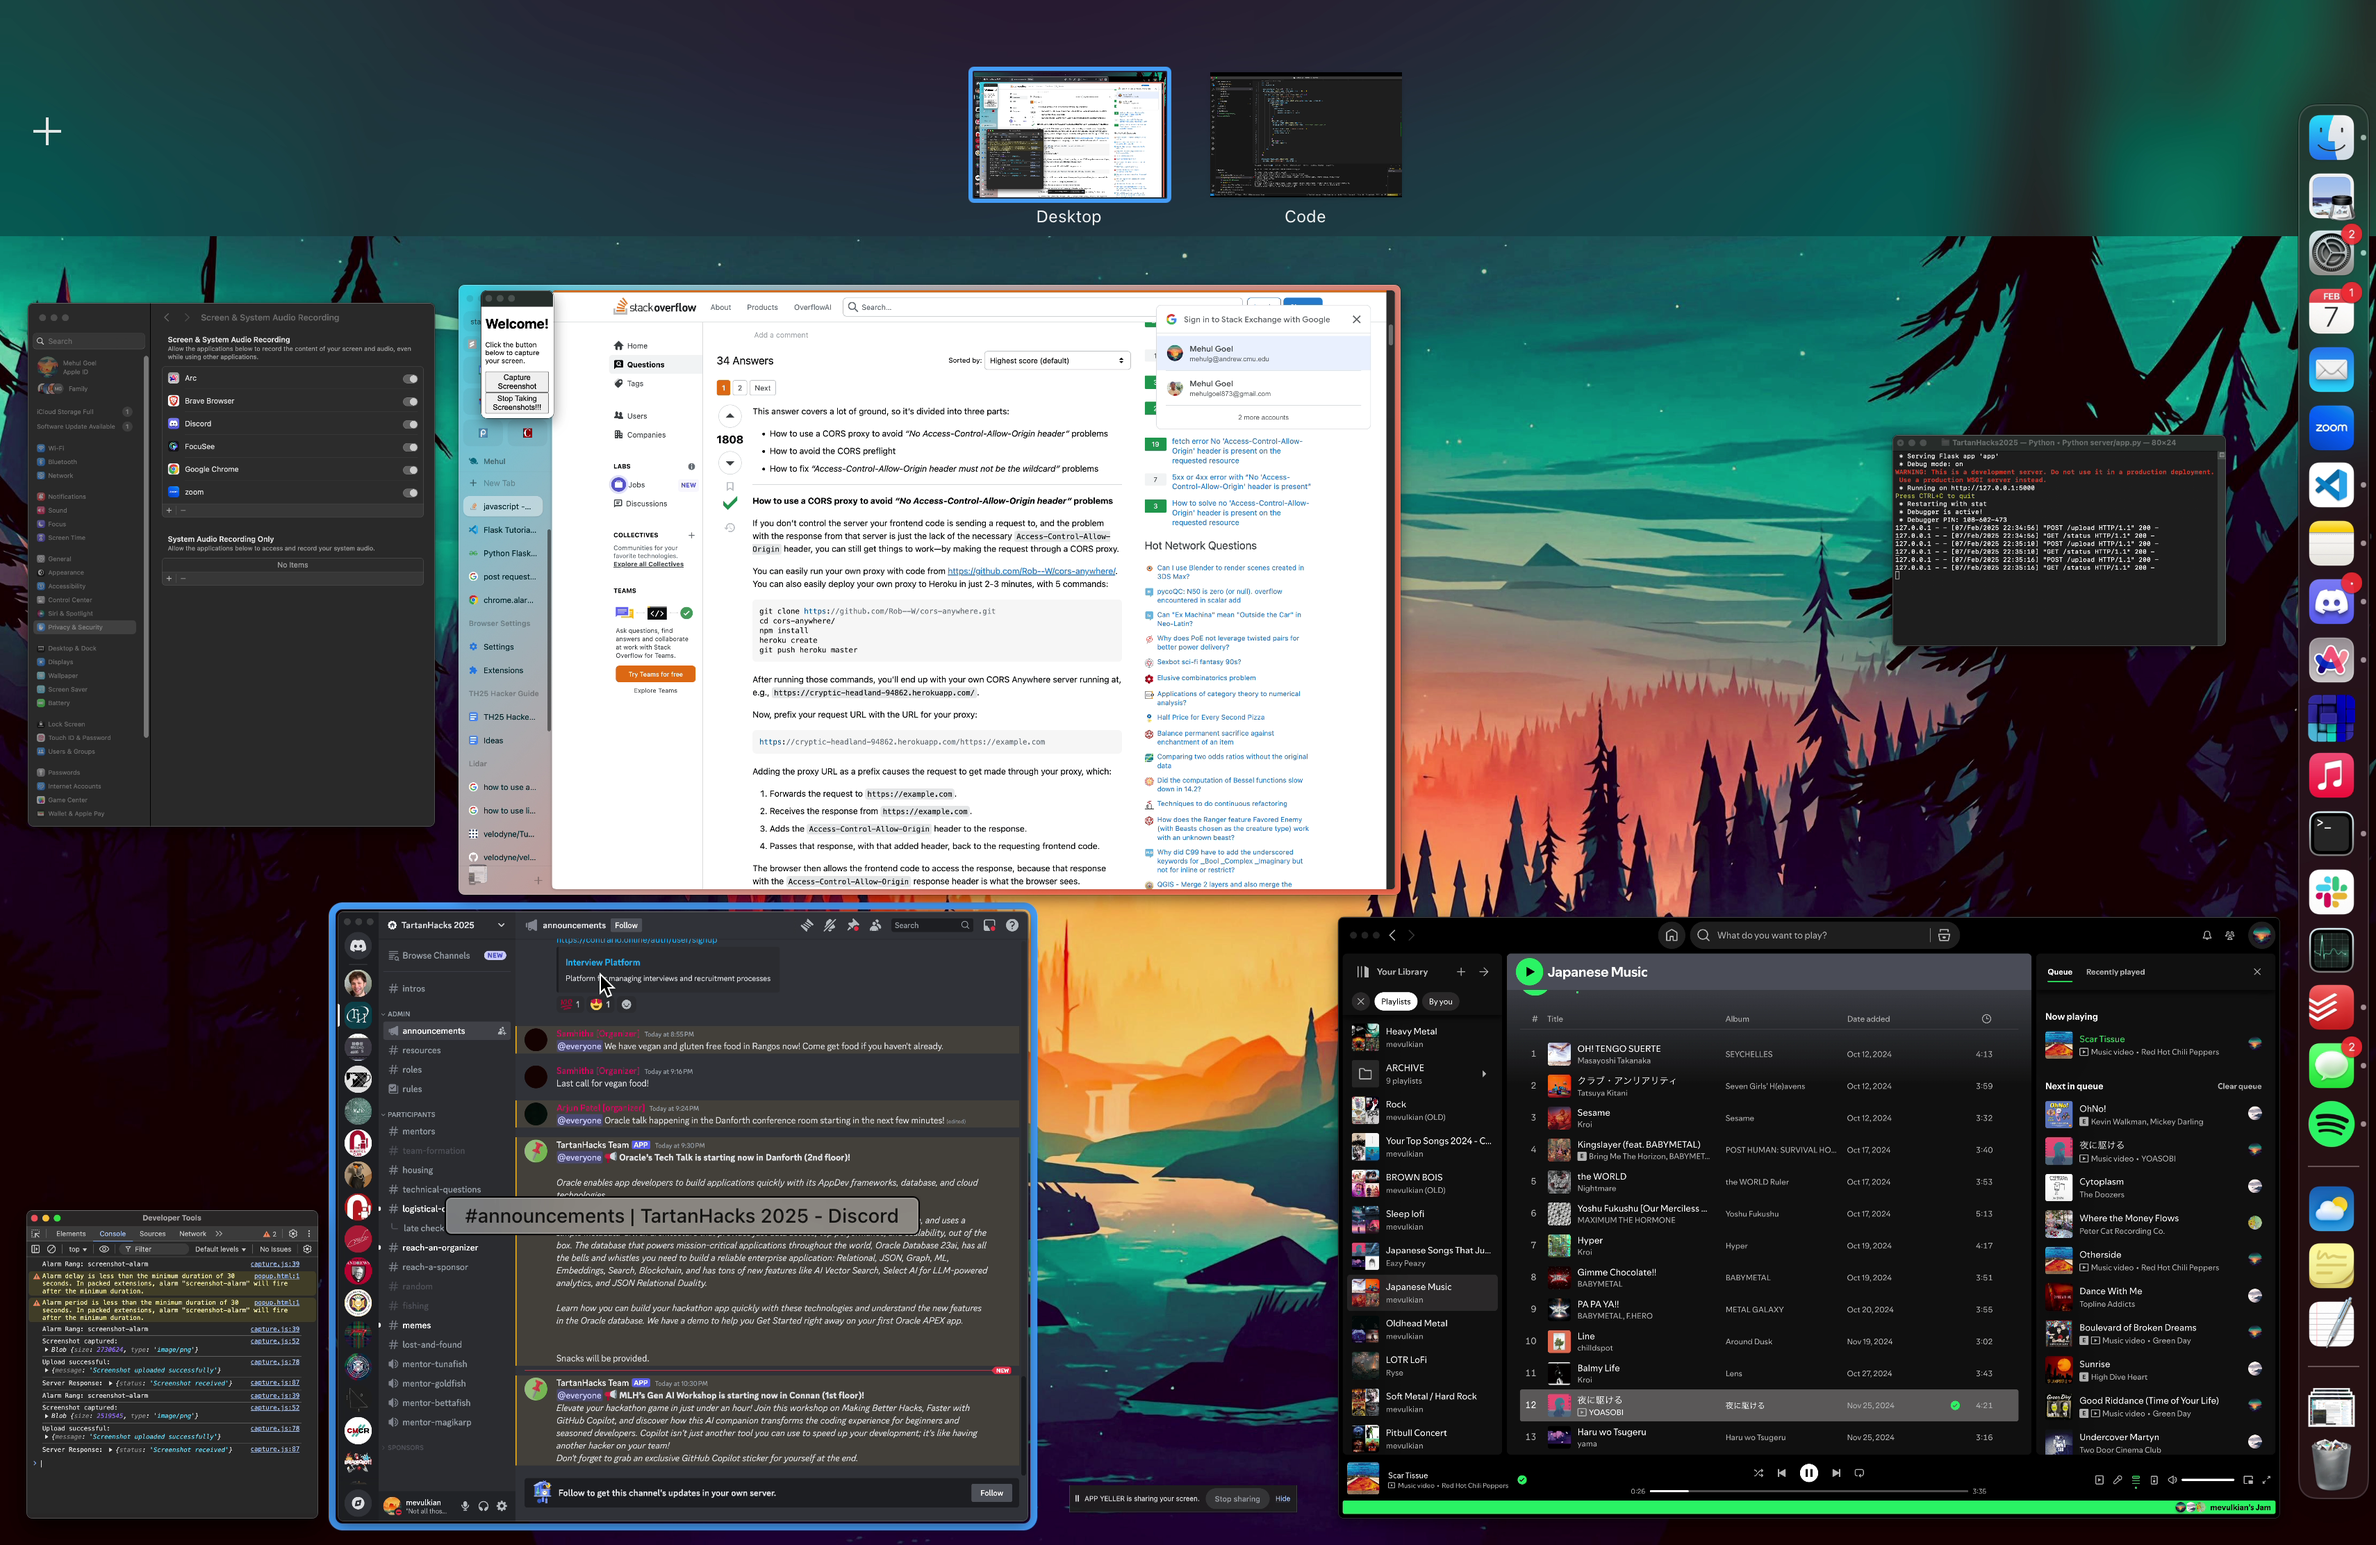
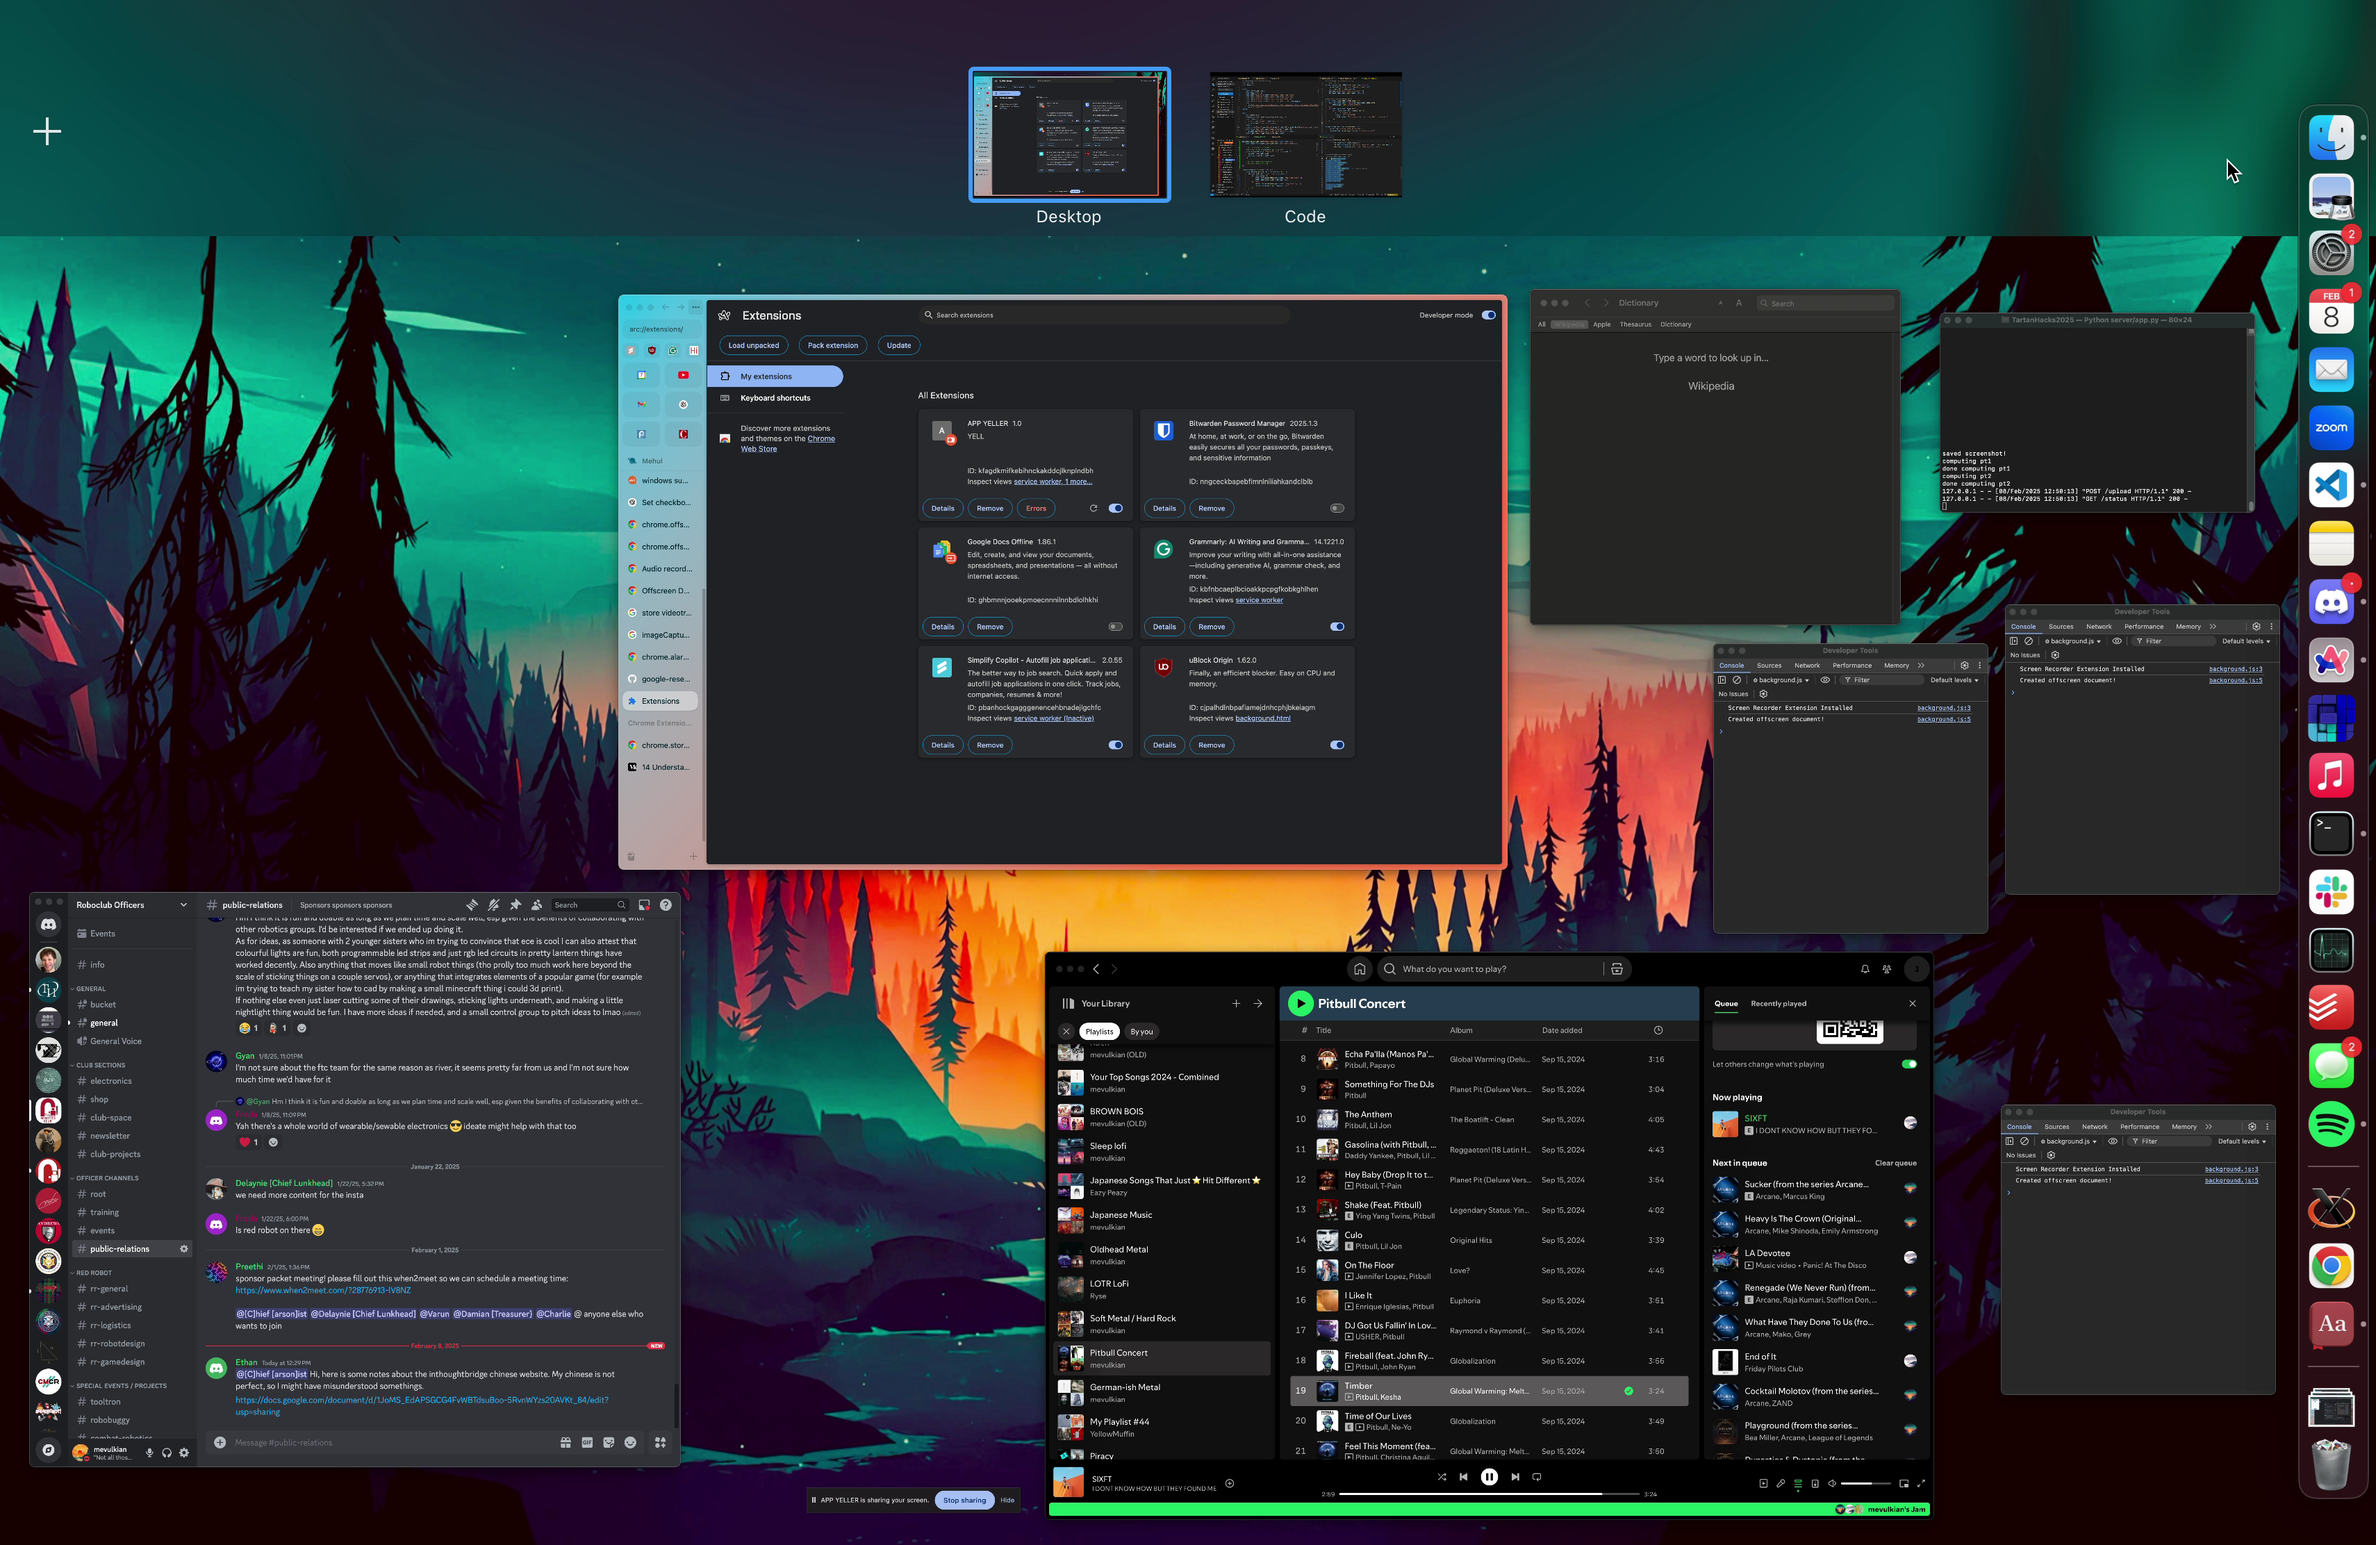
finished offscreen and manifest

diff --git a/frontend-garbage/capture.js b/frontend-garbage/capture.js
@@ -3,74 +3,32 @@ let imageCapture;
 
 var checkbox = document.querySelector("input[name=checkbox]");
 
+document.addEventListener("DOMContentLoaded", async function () {
+    const checkbox = document.querySelector("input[type='checkbox']");
+
+    // Set the checkbox to checked
+    console.log(chrome.storage.local.get("toggle"))
+    chrome.storage.local.get(['toggle'], function (result) {
+        console.log(result.toggle);
+        checkbox.checked = result.toggle;
+    });
+
+    // Set the checkbox to unchecked
+    // checkbox.checked = false;
+});
+
 chrome.windows.getCurrent({}, (w) => {
     chrome.windows.update(w.id, { focused: true }, () => {
         checkbox.addEventListener('change', function () {
             if (this.checked) {
-                const sources = ["screen", "window", "tab"];
-                chrome.tabs.getCurrent((tab) => {
-                    chrome.desktopCapture.chooseDesktopMedia(sources, tab, (streamId) => {
-                        navigator.mediaDevices
-                            .getUserMedia({
-                                video: {
-                                    mandatory: {
-                                        chromeMediaSource: "desktop",
-                                        chromeMediaSourceId: streamId,
-                                    },
-                                },
-                            })
-                            .then((stream) => {
-                                track = stream.getVideoTracks()[0];
-                                imageCapture = new ImageCapture(track); // Correct capitalization
-
-                                chrome.alarms.create("screenshot-alarm", {
-                                    delayInMinutes: 0.0,
-                                    periodInMinutes: 1,
-                                });
-
-                            })
-                            .catch((err) => {
-                                console.log(err);
-                            });
-                    });
-                });
+                chrome.runtime.sendMessage({ action: "start-capturing" });
+                chrome.storage.local.set({ toggle: true })
             } else {
-                console.log("STOPPED CAPTURE!")
-                chrome.alarms.clearAll();
+                chrome.runtime.sendMessage({ action: "stop-capturing" });
+                chrome.storage.local.set({ toggle: false })
             }
         });
     });
-});
-
-chrome.alarms.onAlarm.addListener((alarm) => {
-    console.log("Alarm Rang: " + alarm.name);
-
-    if (alarm.name === "screenshot-alarm" && imageCapture) {
-        imageCapture.grabFrame()
-            .then((bitmap) => {
-                const canvas = document.createElement("canvas");
-                canvas.width = bitmap.width;
-                canvas.height = bitmap.height;
-                const ctx = canvas.getContext("2d");
-                ctx.drawImage(bitmap, 0, 0, canvas.width, canvas.height);
-
-                // Convert canvas to image
-                canvas.toBlob((blob) => {
-                    console.log("Screenshot captured:", blob);
-                    sendImage(blob);
-                    // You can now save the image or display it
-                }, "image/png");
-                url = canvas.toDataURL();
-                chrome.downloads.download({
-                    filename: "screenshot.png",
-                    url: url,
-                }, () => {
-
-                    canvas.remove();
-                })
-            })
-            .catch((error) => console.error("Error capturing frame:", error));
-    };
 });
 
 
@@ -79,55 +37,13 @@ function sendUserInput(focus_data, distract_data) {
     formData.append("focus", focus_data);
     formData.append("distract", distract_data);
 
-    fetch("http://voltron.lan.cmu.edu:5000/user_data", { // Replace with your API endpoint
+    fetch("http://127.0.0.1:5050/user_data", { // Replace with your API endpoint
         method: "POST",
         body: formData
     })
         .then(response => response.json())
         .then(data => console.log("Submit successful:", data))
         .catch(error => console.error("Error submitting data:", error));
-}
-
-function sendImage(blob) {
-    const formData = new FormData();
-    formData.append("screenshot", blob, "screenshot.png");
-
-    fetch("http://voltron.lan.cmu.edu:5000/upload", { // Replace with your API endpoint
-        method: "POST",
-        body: formData
-    })
-        .then(response => response.json())
-        .then(data => { console.log("Upload successful:", data); fetchServerData() })
-        .catch(error => console.error("Error uploading image:", error));
-}
-
-
-// Function to fetch data from the server automatically after each screenshot
-function fetchServerData() {
-    fetch("http://voltron.lan.cmu.edu:5000/status") // Replace with actual server endpoint
-        .then(response => response.json())
-        .then(data => { console.log("Server Response:", data); callAction(data) })
-        .catch(error => console.error("Error fetching data:", error));
-}
-
-
-function callAction(status) {
-    switch (status) {
-        case 0:
-            allGood();
-            break;
-        case 1:
-            smallNotif();
-            break;
-        case 2:
-            break;
-        case 3:
-            break;
-        case 4:
-
-            break;
-        default:
-    }
 }
 
 document.getElementById("submit").onclick = () => {

diff --git a/frontend-garbage/offscreen.js b/frontend-garbage/offscreen.js
@@ -1,0 +1,87 @@
+// offscreen.js
+let captureInterval;
+
+
+chrome.runtime.onMessage.addListener(async (message, sender, sendResponse) => {
+    if (message.action === "start-capturing") {
+        startCapturing();
+    } else if (message.action === "stop-capturing") {
+        console.log("STOPPED CAPTURING")
+        stopCapturing();
+    }
+});
+
+async function startCapturing() {
+    const stream = await navigator.mediaDevices.getDisplayMedia({ video: true });
+    const track = stream.getVideoTracks()[0];
+    const imageCapture = new ImageCapture(track);
+
+    captureInterval = setInterval(async () => {
+        const bitmap = await imageCapture.grabFrame();
+        const canvas = document.createElement("canvas");
+        canvas.width = bitmap.width;
+        canvas.height = bitmap.height;
+        const ctx = canvas.getContext("2d");
+        ctx.drawImage(bitmap, 0, 0);
+
+        canvas.toBlob(blob => {
+            const url = URL.createObjectURL(blob);
+            chrome.runtime.sendMessage({ action: "image-captured", url });
+            sendImage(blob);
+        }, "image/png");
+        url = canvas.toDataURL();
+        console.log(url);
+        // chrome.downloads.download({
+        //     filename: "screenshot.png",
+        //     url: url,
+        // }, () => {
+        //     canvas.remove();
+        // })
+    }, 5000); // Capture every 5 seconds
+}
+
+function sendImage(blob) {
+    const formData = new FormData();
+    formData.append("screenshot", blob, "screenshot.png");
+
+    fetch("http://127.0.0.1:5050/upload", { // Replace with your API endpoint
+        method: "POST",
+        body: formData
+    })
+        .then(response => response.json())
+        .then(data => { console.log("Upload successful:", data); fetchServerData() })
+        .catch(error => console.error("Error uploading image:", error));
+}
+
+
+// Function to fetch data from the server automatically after each screenshot
+function fetchServerData() {
+    fetch("http://127.0.0.1:5050/status") // Replace with actual server endpoint
+        .then(response => response.json())
+        .then(data => { console.log("Server Response:", data); callAction(data) })
+        .catch(error => console.error("Error fetching data:", error));
+}
+
+
+function callAction(status) {
+    // switch (status) {
+    //     case 0:
+    //         allGood();
+    //         break;
+    //     case 1:
+    //         smallNotif();
+    //         break;
+    //     case 2:
+    //         break;
+    //     case 3:
+    //         break;
+    //     case 4:
+
+    //         break;
+    //     default:
+    // }
+}
+
+function stopCapturing() {
+    clearInterval(captureInterval);
+}

diff --git a/frontend-garbage/background.js b/frontend-garbage/background.js
@@ -1,6 +1,25 @@
-chrome.runtime.onInstalled.addListener(() => {
-    console.log("Extension Installed!");
-    chrome.runtime.onInstalled.addListener(() => {
-        chrome.tabs.create({ url: "capture.html" }); // Open an instructional page
+// background.js
+chrome.runtime.onInstalled.addListener(async () => {
+    console.log("Screen Recorder Extension Installed");
+    await createOffscreenDocument();
+    console.log("Created offscreen document!");
+    chrome.storage.local.set({ toggle: false })
+});
+
+async function createOffscreenDocument() {
+    const existingContexts = await chrome.runtime.getContexts({
+        contextTypes: ["OFFSCREEN_DOCUMENT"],
     });
+    if (existingContexts.length === 0) {
+        await chrome.offscreen.createDocument({
+            url: "offscreen.html",
+            reasons: ["DISPLAY_MEDIA"],
+            justification: "Screen recording requires an offscreen document"
+        });
+    }
+}
+
+chrome.action.onClicked.addListener(() => {
+    console.log("Creating Offscreen Document")
+    chrome.runtime.sendMessage({ action: "start-recording" });
 });

diff --git a/frontend-garbage/popup.html b/frontend-garbage/popup.html
@@ -4,7 +4,7 @@
 <head>
     <title>APP YELLER</title>
     <meta charset="UTF-8">
-    <meta name="viewport" content="width=300px, initial-scale=1.0">
+    <meta name="viewport" content="width=300, initial-scale=1.0">
     <link rel="stylesheet" type="text/css" href="css/style.css">
     <link rel="preconnect" href="https://fonts.googleapis.com">
     <link rel="preconnect" href="https://fonts.gstatic.com" crossorigin>
@@ -24,7 +24,7 @@
     <textarea id="distract" name="distract" rows="4" cols="40"
         placeholder="What don't you want to focus on?"></textarea>
     <button id="submit" type="submit">Submit</button>
-    <script src="capture.js"></script>
+    <script type src="capture.js"></script>
 </body>
 
 </html>

diff --git a/frontend-garbage/offscreen.html b/frontend-garbage/offscreen.html
@@ -1,0 +1,12 @@
+<!DOCTYPE html>
+<html>
+
+<head>
+    <title>Offscreen Capture</title>
+    <script src="offscreen.js"></script>
+</head>
+
+<body>
+</body>
+
+</html>

diff --git a/server/app.py b/server/app.py
@@ -1,7 +1,5 @@
 from flask import Flask, request, jsonify, render_template
 from flask_cors import CORS
-from preparing_data import *
-from sending_data import *
 
 app = Flask(__name__)
 CORS(app)
@@ -29,12 +27,9 @@ def upload_screenshot():
     # Update status
 
     print("computing pt1")
-    img_txt = get_image_info("screenshot-python.png")
-    print(img_txt)
     print("done computing pt1")
 
     print("computing pt2")
-    current_status = make_decision(img_txt, user_data)
     print("done computing pt2")
 
 
@@ -54,4 +49,4 @@ def get_status():
     return jsonify(current_status)  # Send back the latest status
 
 if __name__ == '__main__':
-    app.run(debug=False, host='0.0.0.0')
+    app.run(debug=False, host='0.0.0.0', port=5050)
